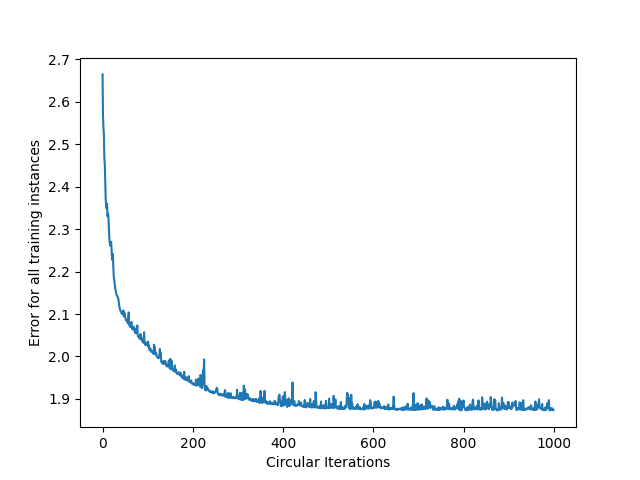
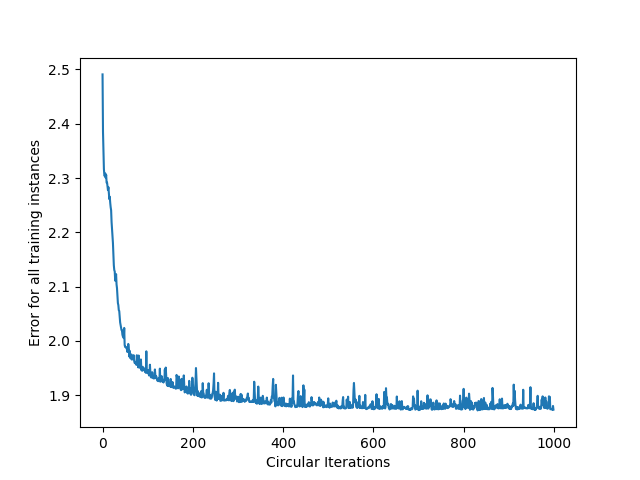
...

diff --git a/python/recursively_circular_ai_code.py b/python/recursively_circular_ai_code.py
@@ -79,17 +79,17 @@ class CircularNeuralNetwork:
         return cumulative_errors
 
 
-class MultiplicativeNeuralNetwork:
+class CircularStraightNeuralNetwork:
     def __init__(self, learning_rate):
         self.weights = np.array([np.random.randn(), np.random.randn()])
         self.bias = np.random.randn()
         self.learning_rate = learning_rate
-
+  
     def _sigmoid(self, x):
-        return 1 / (1 + np.exp(-x))
+        return (1 / (1 + np.exp(-x))+1 / (math.sqrt(1+np.exp(-x)**2)))/2
 
     def _sigmoid_deriv(self, x):
-        return np.exp((self._sigmoid(x) * (1 - self._sigmoid(x)))/(1 / (1 + np.exp(-x))))
+        return (np.exp((self._sigmoid(x) * (1 - self._sigmoid(x)))/(1 / (1 + np.exp(-x))))+math.sqrt(1+(self._sigmoid(x) * (1 - self._sigmoid(x)))**2)-math.sqrt(1))/2
         #return self._sigmoid(x) * (1 - self._sigmoid(x))
 
 
@@ -248,20 +248,32 @@ plt.xlabel("Circular Iterations")
 plt.ylabel("Error for all training instances")
 plt.savefig("circular_cumulative_error.png")
 
-neural_network = NeuralNetwork(learning_rate)
+from datasets import load_dataset, load_metric
+from transformers import DistilBertTokenizerFast
+from transformers import AutoModelForSequenceClassification, DataCollatorWithPadding
+from transformers import Trainer, TrainingArguments
 
-training_error = neural_network.train(input_vectors, targets, 100000)
+checkpoint = "distilbert-base-uncased"
 
-plt.plot(training_error)
-plt.xlabel("Circular Iterations")
-plt.ylabel("Error for all training instances")
-plt.savefig("cumulative_error.png")
+dataset = load_dataset("boolq")
+DatasetDict({train: Dataset({features: ['question', 'answer', 'passage'], num_rows: 9427}), validation: Dataset({features: ['question', 'answer', 'passage'], num_rows: 3270 })})
+tokenizer = DistilBertTokenizerFast.from_pretrained(checkpoint)
 
-neural_network = MultiplicativeNeuralNetwork(learning_rate)
+def tokenize_function(example):
+    encoded = tokenizer(example["question"], example["passage"], truncation=True)
+    encoded["labels"] = [int(a) for a in example["answer"]]
+    return encoded
 
-training_error = neural_network.train(input_vectors, targets, 100000)
+tokenized_datasets = dataset.map(tokenize_function, batched=True)
+data_collator = DataCollatorWithPadding(tokenizer=tokenizer)
+model = AutoModelForSequenceClassification.from_pretrained(checkpoint, num_labels=2)
+args = TrainingArguments("roberta-booql", per_device_train_batch_size=16, learning_rate=1e-3, num_train_epochs=3)
+trainer = Trainer(model, args, train_dataset=tokenized_datasets["train"], eval_dataset=tokenized_datasets["validation"], data_collator=data_collator, tokenizer=tokenizer,)
+trainer.train()
 
-plt.plot(training_error)
-plt.xlabel("Circular Iterations")
-plt.ylabel("Error for all training instances")
-plt.savefig("multiplicative_cumulative_error.png")
+predictions = trainer.predict(tokenized_datasets["validation"])
+y_pred = predictions.predictions.argmax(-1)
+labels = predictions.label_ids
+metric = load_metric("accuracy")
+metric.compute(predictions=y_pred, references=predictions.label_ids)
+

diff --git a/python/bifurcationdiagram.py b/python/bifurcationdiagram.py
@@ -1,0 +1,87 @@
+import numpy as np
+import matplotlib.pyplot as plt
+def logistic(r, x):
+  return r * x * (1-x)
+
+x = np.linspace(0,1)
+fig, ax = plt.subplots(1,1)
+ax.plot(x, logistic(2, x), 'k')
+plt.show()
+
+def plot_system(r, x0, n, ax=None):
+    # Plot the function and the
+    # y=x diagonal line.
+    t = np.linspace(0, 1)
+    ax.plot(t, logistic(r, t), 'k', lw=2)
+    ax.plot([0, 1], [0, 1], 'k', lw=2)
+
+    # Recursively apply y=f(x) and plot two lines:
+    # (x, x) -> (x, y)
+    # (x, y) -> (y, y)
+    x = x0
+    for i in range(n):
+        y = logistic(r, x)
+        # Plot the two lines.
+        ax.plot([x, x], [x, y], 'k', lw=1)
+        ax.plot([x, y], [y, y], 'k', lw=1)
+        # Plot the positions with increasing
+        # opacity.
+        ax.plot([x], [y], 'ok', ms=10,
+                alpha=(i + 1) / n)
+        x = y
+
+    ax.set_xlim(0, 1)
+    ax.set_ylim(0, 1)
+    ax.set_title(f"$r={r:.1f}, \, x_0={x0:.1f}$")
+
+
+
+fig, (ax1, ax2) = plt.subplots(1, 2, figsize=(12, 6),
+                               sharey=True)
+
+plot_system(2.5, .1, 10, ax=ax1)
+plot_system(3.5, .1, 10, ax=ax2)
+
+n = 1000
+r = np.linspace(2.5, 4.0, n)
+iterations = 1000
+last = 100
+x = 1e-5 * np.ones(n)
+
+lyapunov = np.zeros(n)
+
+
+
+fig, (ax1, ax2) = plt.subplots(2, 1, figsize=(8, 9),
+                               sharex=True)
+
+for i in range(iterations):
+    x = logistic(r, x)
+    # We compute the partial sum of the
+    # Lyapunov exponent.
+    lyapunov += np.log(abs(r - 2 * r * x))
+    # We display the bifurcation diagram.
+    if i >= (iterations - last):
+        ax1.plot(r, x, ',k', alpha=.25)
+ax1.set_xlim(2.5, 4)
+ax1.set_title("Bifurcation diagram")
+
+
+# We display the Lyapunov exponent.
+# Horizontal line.
+ax2.axhline(0, color='k', lw=.5, alpha=.5)
+# Negative Lyapunov exponent.
+ax2.plot(r[lyapunov < 0],
+         lyapunov[lyapunov < 0] / iterations,
+         '.k', alpha=.5, ms=.5)
+# Positive Lyapunov exponent.
+ax2.plot(r[lyapunov >= 0],
+         lyapunov[lyapunov >= 0] / iterations,
+         '.r', alpha=.5, ms=.5)
+ax2.set_xlim(2.5, 4)
+ax2.set_ylim(-2, 1)
+ax2.set_title("Lyapunov exponent")
+plt.savefig("bifurcation.jpg")
+plt.tight_layout()
+
+
